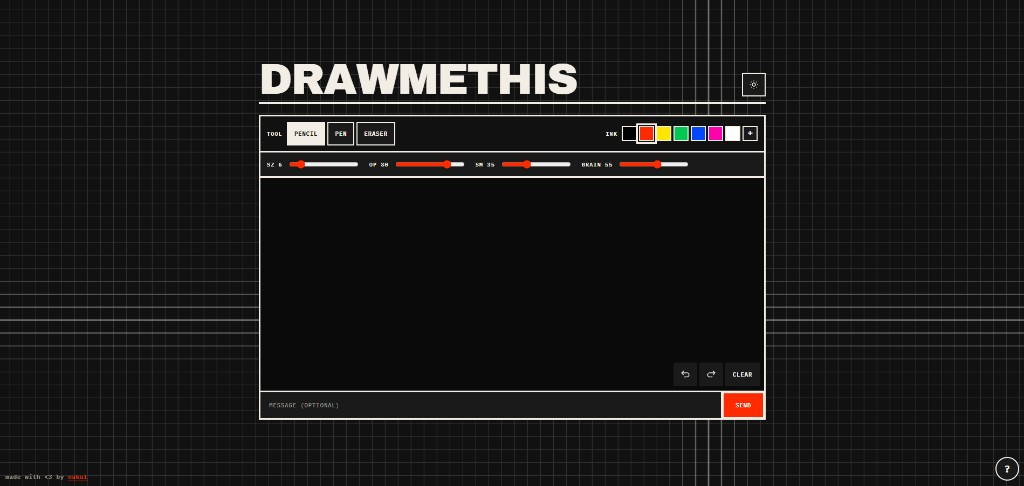
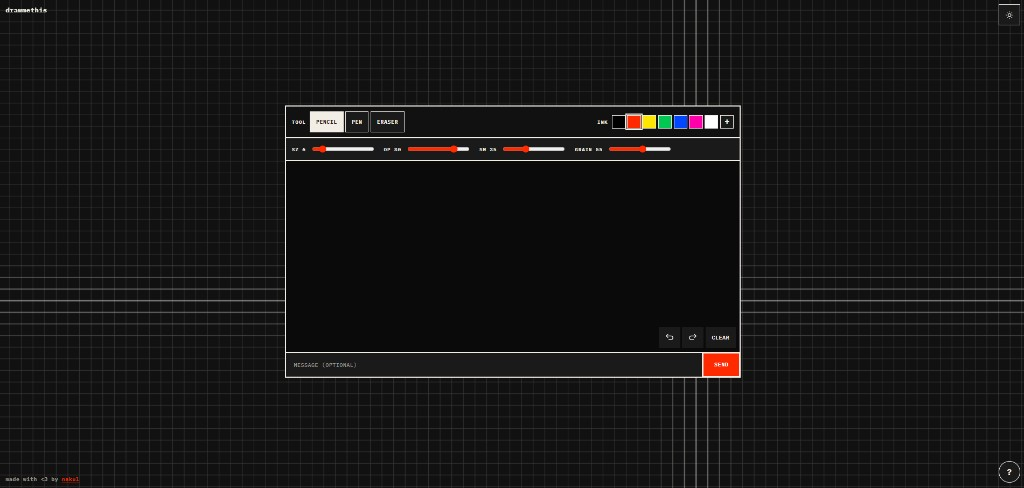
Add home portrait and refresh the drawmethis screenshot.

diff --git a/index.html b/index.html
@@ -30,6 +30,8 @@
 
   <main class="home">
     <section class="intro">
+      <img class="intro-mark" src="images/portrait.gif" alt="" />
+      <div>
       <h1>Nakul Rejeesh</h1>
       <p class="tagline">Computer Engineering @ UNSW</p>
       <p class="bio">webapps / embedded / arduino / esp32 / fpga</p>
@@ -38,6 +40,7 @@
         <a href="https://github.com/n4kulr" target="_blank" rel="noopener">github</a>
         <a href="https://www.linkedin.com/in/nakul-rejeesh-a5498736b/" target="_blank" rel="noopener">linkedin</a>
         <a href="mailto:nakulrejeesh2005@gmail.com">email</a>
+      </div>
       </div>
     </section>
   </main>

diff --git a/style.css b/style.css
@@ -119,6 +119,23 @@ main.games {
 }
 
 /* HOME */
+.intro {
+  display: flex;
+  align-items: center;
+  gap: 28px;
+}
+
+.intro-mark {
+  width: 200px;
+  height: auto;
+  flex-shrink: 0;
+}
+
+[data-theme="dark"] .intro-mark {
+  filter: invert(1);
+  mix-blend-mode: screen;
+}
+
 .home h1 {
   font-family: var(--font);
   font-size: clamp(2.4rem, 6vw, 4rem);
@@ -371,4 +388,6 @@ main.games {
   nav ul { gap: 20px; }
   main { padding: 48px 24px; }
   .project-grid { grid-template-columns: 1fr; }
+  .intro { gap: 16px; }
+  .intro-mark { width: 120px; }
 }
